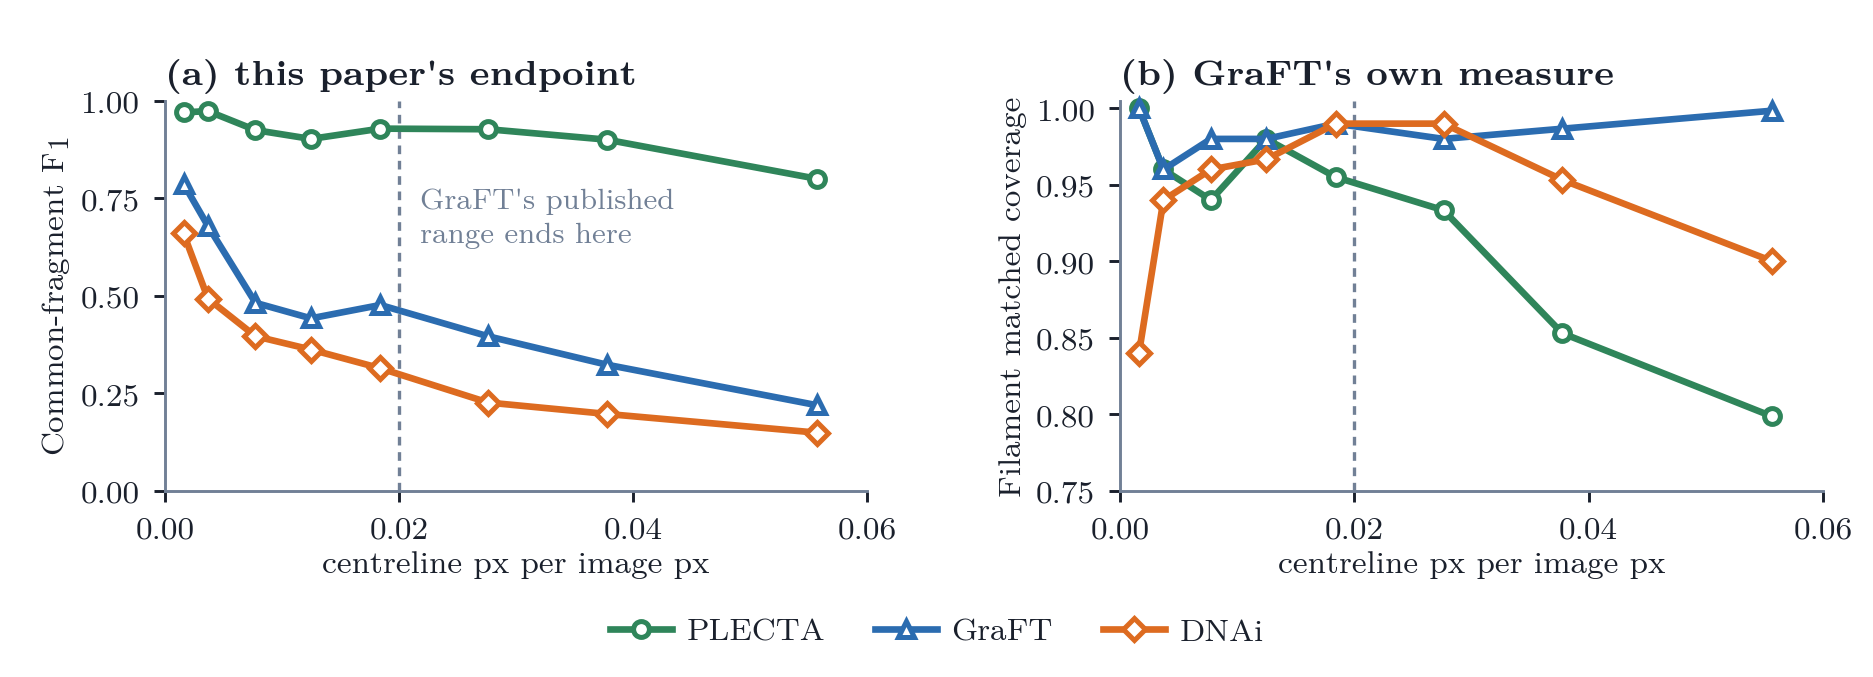
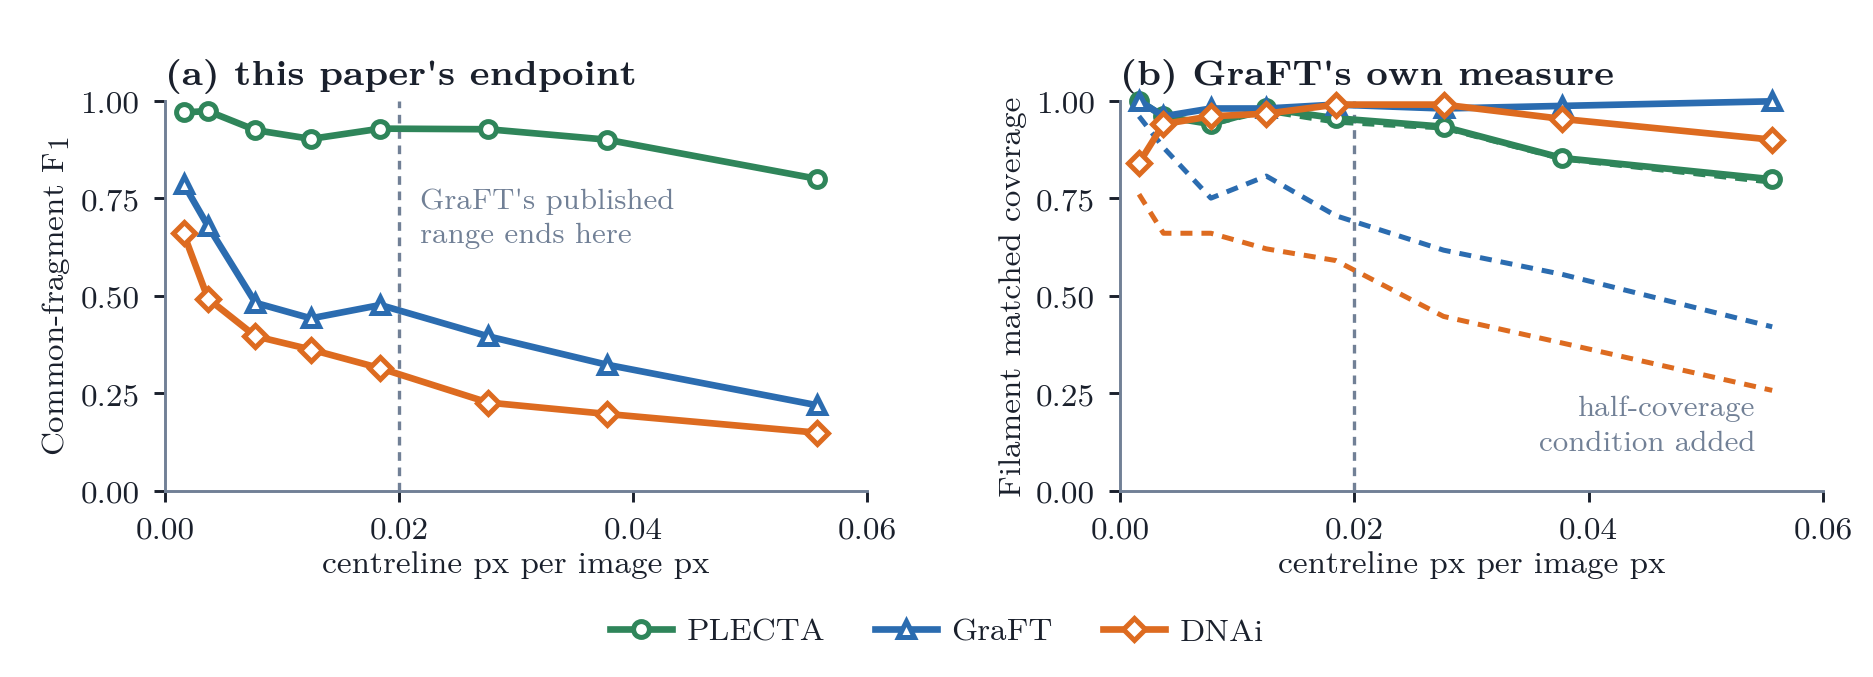
Ask GraFT's own measure to require the match it claims
Filament matched coverage reversed the ranking at the dense end, and the
manuscript explained that arithmetically: the matching is one-to-one, so
emitting fewer objects than the scene contains caps the score. Measuring it
is better than arguing it. Per scene the measure equals the smaller of one
and the emission ratio to within 0.16, and for every one of PLECTA's forty
scenes it equals it exactly.

Adding the one condition the measure never imposes -- that a detection cover
half the filament it claims, the matching otherwise untouched -- restores the
order at the densest stratum: 0.791 PLECTA, 0.420 GraFT, 0.257 DNAi. The
figure's panel (b) now draws both readings, so it no longer needs a truncated
axis, and PLECTA's two lines nearly coincide where the other two separate.

The any-overlap column is recomputed unchanged and gated on reproducing all
120 stored values exactly, so the new column arrives beside a published one
rather than replacing it.

diff --git a/scripts/figures/fig_graft_regime.py b/scripts/figures/fig_graft_regime.py
@@ -8,19 +8,26 @@ continues into ours.
 
   (a) the manuscript's endpoint. PLECTA leads at every density and the margin
       widens; nothing crosses over.
-  (b) GraFT's own Fig. 2 metric on the identical predictions. The ranking
-      inverts at the dense end: GraFT is first and PLECTA last.
+  (b) GraFT's own Fig. 2 metric on the identical predictions, drawn twice. The
+      solid lines are the measure as published, where the ranking inverts at
+      the dense end: GraFT is first and PLECTA last. The dashed lines are the
+      identical bipartite matching with one edge condition added -- a detection
+      may claim a filament only when it covers half that filament's axis -- and
+      the inversion disappears.
 A third panel drew the ratio of objects emitted to objects present, which is
 the mechanism: matched coverage pairs each reference filament with at most one
 detection, so emitting fewer objects than a scene contains caps the score while
 emitting more does not. It is gone. That ratio is one number per method and the
-prose gives it, and (b) carries the point by itself once its axis is resolved to
-the range the values actually occupy.
+prose gives it; the dashed lines now carry the same point as a measurement
+rather than as an arithmetic aside, which is why (b) is no longer truncated.
 
 The two panels are not in tension. Matched coverage asks whether each true
 filament was found; the pairwise score asks whether the pieces were put
 together correctly. A method that shatters every filament at its crossings
 still offers a distinct detection for each one and still scores near 1 in (b).
+What the dashed lines add is that those detections are then mostly fragments:
+the solid-to-dashed drop is the share of matches that do not survive being
+asked to resemble the filament they were matched to.
 
 Data: results/plecta_graft_regime.json, written by
 scripts/results/make_graft_regime_record.py.
@@ -55,10 +62,15 @@ SERIES = (("plecta", "PLECTA", GREEN, "o"),
 PUBLISHED_LIMIT = 0.020
 
 
-def panel(ax, xs, series, ylabel, ylim, yticks):
+def panel(ax, xs, series, ylabel, ylim, yticks, dashed=None):
     for key, label, colour, marker in SERIES:
         ax.plot(xs, series[key], color=colour, lw=1.6, marker=marker, ms=3.8,
                 mfc="white", mew=1.2, zorder=4, label=label, clip_on=False)
+        if dashed is not None:
+            #  Same colour, no marker: this is the same method under a stricter
+            #  reading of the same measure, not a fourth series.
+            ax.plot(xs, dashed[key], color=colour, lw=1.2,
+                    ls=(0, (2.4, 1.8)), zorder=3, clip_on=False)
     ax.axvline(PUBLISHED_LIMIT, color=GRAY, lw=0.8, ls=(0, (2.6, 2.0)),
                zorder=2)
     ax.set_xlim(0, 0.060)
@@ -84,6 +96,8 @@ def main() -> int:
     f1 = {k: [s["methods"][k]["f1"] for s in strata] for k, *_ in SERIES}
     fmc = {k: [s["methods"][k]["filament_matched_coverage"] for s in strata]
            for k, *_ in SERIES}
+    fmc_half = {k: [s["methods"][k]["filament_matched_coverage_half"]
+                    for s in strata] for k, *_ in SERIES}
     #  No longer drawn -- the third panel is gone -- but still printed, because
     #  it is the mechanism the prose quotes.
     ratio = {k: [s["methods"][k]["n_instances_emitted"]
@@ -104,14 +118,18 @@ def main() -> int:
                 xytext=(5.0, 0.0), ha="left", va="center", fontsize=PT_MIN,
                 color=GRAY, linespacing=1.4)
 
-    #  A truncated axis, deliberately: every value lies above 0.75 and the
-    #  differences that decide the ranking are hundredths. Stated in the
-    #  caption. (a) is not truncated, because there the range is real.
+    #  Full range, matching (a): the half-coverage lines reach 0.257, so the
+    #  truncation this panel used to need is gone and both panels are now read
+    #  on the same scale.
     ax = fig.add_axes(rects[1])
-    panel(ax, xs, fmc, "Filament matched coverage", (0.75, 1.005),
-          [0.75, 0.80, 0.85, 0.90, 0.95, 1.00])
+    panel(ax, xs, fmc, "Filament matched coverage", (0.0, 1.0),
+          [0, 0.25, 0.5, 0.75, 1.0], dashed=fmc_half)
     ax.set_title("(b) GraFT's own measure", loc="left", fontsize=PT_TITLE,
                  fontweight="bold", pad=4.0)
+    ax.annotate("half-coverage" + chr(10) + "condition added",
+                (xs[-1], fmc_half["dnai"][-1]), textcoords="offset points",
+                xytext=(-4.0, -1.0), ha="right", va="top", fontsize=PT_MIN,
+                color=GRAY, linespacing=1.4)
 
     handles, labels = fig.axes[0].get_legend_handles_labels()
     fig.legend(handles, labels, ncol=3, frameon=False, loc="lower center",

diff --git a/scripts/results/make_graft_regime_record.py b/scripts/results/make_graft_regime_record.py
@@ -80,6 +80,12 @@ def main() -> None:
                 "n_censored": len([r for r in rows if r["method"] == m]) - len(sub),
                 **{k: mean(float(r[k]) for r in sub) for k in METRICS},
                 "filament_matched_coverage": mean(float(r["fmc"]) for r in own_sub),
+                #  The identical bipartite matching with one edge condition
+                #  added: a detection may claim a filament only if it covers
+                #  half of its axis. The difference between the two columns is
+                #  exactly what the permissive form does not ask.
+                "filament_matched_coverage_half": mean(float(r["fmc_half"])
+                                                       for r in own_sub),
                 "filament_coverage": mean(float(r["filament_coverage"])
                                           for r in own_sub),
                 "n_instances_emitted": mean(float(r["n_pred"]) for r in own_sub),
@@ -97,8 +103,19 @@ def main() -> None:
             "n_scored": len(sub),
             **{k: mean(float(r[k]) for r in sub) for k in METRICS},
             "filament_matched_coverage": mean(float(r["fmc"]) for r in own_sub),
+            "filament_matched_coverage_half": mean(float(r["fmc_half"])
+                                                   for r in own_sub),
             "filament_coverage": mean(float(r["filament_coverage"])
                                       for r in own_sub),
+            #  How closely the permissive measure is simply a count of objects.
+            #  A method emitting more objects than the scene contains has a
+            #  spare for every filament, so its ceiling is 1; one emitting
+            #  fewer is capped at the ratio. Measuring the residual per scene
+            #  turns that from an argument into a number.
+            "max_abs_deviation_from_emission_ratio": max(
+                (abs(float(r["fmc"])
+                     - min(1.0, float(r["n_pred"]) / max(1.0, float(r["n_gt"]))))
+                 for r in own_sub), default=None),
         }
 
     payload = {
@@ -123,7 +140,19 @@ def main() -> None:
                           "whole-filament to whole-detection matching, so "
                           "neither can see which arms were joined at a "
                           "crossing"),
+            "graft_own_half": ("the identical matching with one edge condition "
+                               "added: a detection may be matched to a filament "
+                               "only when it covers at least half that "
+                               "filament's axis. graft_metrics.suite computes "
+                               "it; nothing else in the measure changes"),
         },
+        "what_the_permissive_form_measures": (
+            "essentially the number of objects emitted. Per scene, filament "
+            "matched coverage equals min(1, objects emitted / filaments "
+            "present) to within the max_abs_deviation_from_emission_ratio "
+            "reported per method below. Requiring half coverage separates the "
+            "methods again and restores the pairwise ordering, which is the "
+            "measurement that settles whether the reversal is earned"),
         "source_record": {
             "study": str(STUDY).replace("\\", "/"),
             "protocol": "PROTOCOL.md",

diff --git a/sections/03_results.tex b/sections/03_results.tex
@@ -298,12 +298,21 @@ disagreement is worth stating rather than resolving. Filament matched coverage
 asks whether each reference filament was matched one-to-one to some detection.
 At the densest stratum it reads \PlectaRegimeHighGraFTMatched{} for GraFT,
 \PlectaRegimeHighDNAiMatched{} for DNAi and \PlectaRegimeHighPlectaMatched{}
-for PLECTA --- the reverse order. Because the matching is one-to-one, a method
-emitting fewer objects than the scene contains is capped by that ratio, and
-PLECTA emits \PlectaRegimeHighPlectaEmitted{} objects per reference filament
-against \PlectaRegimeHighGraFTEmitted{} for GraFT: PLECTA's coverage figure is
-its emission ratio to three decimals. The measure is not wrong. It asks whether
-each filament was found, and a method that severs every filament at its
+for PLECTA --- the reverse order. What it is counting is objects. Because the
+matching is one-to-one, a method emitting more objects than the scene contains
+has a spare for every filament while one emitting fewer cannot match them all:
+of the \PlectaRegimeHighTrueCount{} filaments in a densest-stratum scene GraFT
+emits \PlectaRegimeHighGraFTCount{}, DNAi \PlectaRegimeHighDNAiCount{} and
+PLECTA \PlectaRegimeHighPlectaCount{}, and across the whole ladder each method's
+matched coverage is the smaller of one and its emission ratio to within
+\PlectaRegimeCoverageCountResidual{} --- exactly, for every PLECTA scene. The
+condition it never imposes is that a matched detection resemble what it claims.
+Adding it, so a detection may take a filament only when it covers half that
+filament's axis and nothing else in the matching changes, restores the order at
+the densest stratum: \PlectaRegimeHighPlectaMatchedHalf{} for PLECTA against
+\PlectaRegimeHighGraFTMatchedHalf{} for GraFT and
+\PlectaRegimeHighDNAiMatchedHalf{} for DNAi. The measure is not wrong. It asks
+whether each filament was found, and a method that severs every filament at its
 crossings still offers a distinct detection for each one; it cannot ask whether
 the pieces were then put together correctly, which is what the pairwise score
 asks and what this paper is about. Both are reported here for that reason.
@@ -316,9 +325,10 @@ asks and what this paper is about. Both are reported here for that reason.
     no interval drawn and none claimed. Dashed line: the density at which
     GraFT's published comparison ends. \textbf{(a)}~the endpoint used
     throughout this paper. \textbf{(b)}~GraFT's own filament matched coverage,
-    on the identical predictions, which reverses the order at high density.
-    Its vertical axis is truncated to the range the values occupy; that of
-    \textbf{(a)} is not.}
+    on the identical predictions, which reverses the order at high density
+    (solid). Dashed: the identical matching with one edge condition added, that
+    a detection may claim a filament only when it covers half that filament's
+    axis. PLECTA's two lines nearly coincide; the other two separate.}
   \label{fig:regime}
 \end{figure}
 

diff --git a/scripts/results/make_plecta_results.py b/scripts/results/make_plecta_results.py
@@ -495,6 +495,24 @@ def graft_regime_macros(regime: dict) -> list[str]:
               fmt(lo["methods"]["graft_native"]["f1"])),
         macro("PlectaRegimeHighGraFTNativeFOne",
               fmt(hi["methods"]["graft_native"]["f1"])),
+        #  The counts behind the emission ratio, because "104 objects where 130
+        #  filaments exist" is the sentence a reader can check.
+        macro("PlectaRegimeHighTrueCount",
+              "%.0f" % hi["methods"]["plecta"]["n_instances_true"]),
+        macro("PlectaRegimeHighPlectaCount",
+              "%.0f" % hi["methods"]["plecta"]["n_instances_emitted"]),
+        macro("PlectaRegimeHighGraFTCount",
+              "%.0f" % hi["methods"]["graft"]["n_instances_emitted"]),
+        macro("PlectaRegimeHighDNAiCount",
+              "%.0f" % hi["methods"]["dnai"]["n_instances_emitted"]),
+        #  How nearly the permissive measure is that count and nothing else.
+        #  PLECTA's residual is exactly zero on all forty scenes, so this is
+        #  reported as the largest residual over the three methods rather than
+        #  as a per-method figure that would read as three separate claims.
+        macro("PlectaRegimeCoverageCountResidual",
+              "%.2f" % max(regime["overall"][m]
+                           ["max_abs_deviation_from_emission_ratio"]
+                           for m in ("plecta", "graft", "dnai"))),
     ]
     for tag, block in (("Low", lo), ("High", hi)):
         for key, stem in (("plecta", "Plecta"), ("graft", "GraFT"),
@@ -504,6 +522,11 @@ def graft_regime_macros(regime: dict) -> list[str]:
                 macro(f"PlectaRegime{tag}{stem}FOne", fmt(b["f1"])),
                 macro(f"PlectaRegime{tag}{stem}Matched",
                       fmt(b["filament_matched_coverage"])),
+                #  The same matching once a detection has to cover half the
+                #  filament it claims. The gap between this and the line above
+                #  is what the permissive form is not asking.
+                macro(f"PlectaRegime{tag}{stem}MatchedHalf",
+                      fmt(b["filament_matched_coverage_half"])),
                 macro(f"PlectaRegime{tag}{stem}Emitted",
                       "%.2f" % (b["n_instances_emitted"]
                                 / b["n_instances_true"])),

diff --git a/results/plecta_results.tex b/results/plecta_results.tex
@@ -344,23 +344,34 @@
 \newcommand{\PlectaRegimeDensityPublished}{0.020}
 \newcommand{\PlectaRegimeLowGraFTNativeFOne}{0.609}
 \newcommand{\PlectaRegimeHighGraFTNativeFOne}{0.237}
+\newcommand{\PlectaRegimeHighTrueCount}{130}
+\newcommand{\PlectaRegimeHighPlectaCount}{104}
+\newcommand{\PlectaRegimeHighGraFTCount}{202}
+\newcommand{\PlectaRegimeHighDNAiCount}{140}
+\newcommand{\PlectaRegimeCoverageCountResidual}{0.16}
 \newcommand{\PlectaRegimeLowPlectaFOne}{0.970}
 \newcommand{\PlectaRegimeLowPlectaMatched}{1.000}
+\newcommand{\PlectaRegimeLowPlectaMatchedHalf}{1.000}
 \newcommand{\PlectaRegimeLowPlectaEmitted}{1.00}
 \newcommand{\PlectaRegimeLowGraFTFOne}{0.787}
 \newcommand{\PlectaRegimeLowGraFTMatched}{1.000}
+\newcommand{\PlectaRegimeLowGraFTMatchedHalf}{0.960}
 \newcommand{\PlectaRegimeLowGraFTEmitted}{1.12}
 \newcommand{\PlectaRegimeLowDNAiFOne}{0.659}
 \newcommand{\PlectaRegimeLowDNAiMatched}{0.840}
+\newcommand{\PlectaRegimeLowDNAiMatchedHalf}{0.760}
 \newcommand{\PlectaRegimeLowDNAiEmitted}{0.96}
 \newcommand{\PlectaRegimeHighPlectaFOne}{0.800}
 \newcommand{\PlectaRegimeHighPlectaMatched}{0.798}
+\newcommand{\PlectaRegimeHighPlectaMatchedHalf}{0.791}
 \newcommand{\PlectaRegimeHighPlectaEmitted}{0.80}
 \newcommand{\PlectaRegimeHighGraFTFOne}{0.219}
 \newcommand{\PlectaRegimeHighGraFTMatched}{0.998}
+\newcommand{\PlectaRegimeHighGraFTMatchedHalf}{0.420}
 \newcommand{\PlectaRegimeHighGraFTEmitted}{1.56}
 \newcommand{\PlectaRegimeHighDNAiFOne}{0.149}
 \newcommand{\PlectaRegimeHighDNAiMatched}{0.900}
+\newcommand{\PlectaRegimeHighDNAiMatchedHalf}{0.257}
 \newcommand{\PlectaRegimeHighDNAiEmitted}{1.08}
 \newcommand{\PlectaBFiveEightOneZeroZeroAxisRecall}{0.782}
 \newcommand{\PlectaBFiveEightOneZeroZeroAxisPrecision}{0.753}
